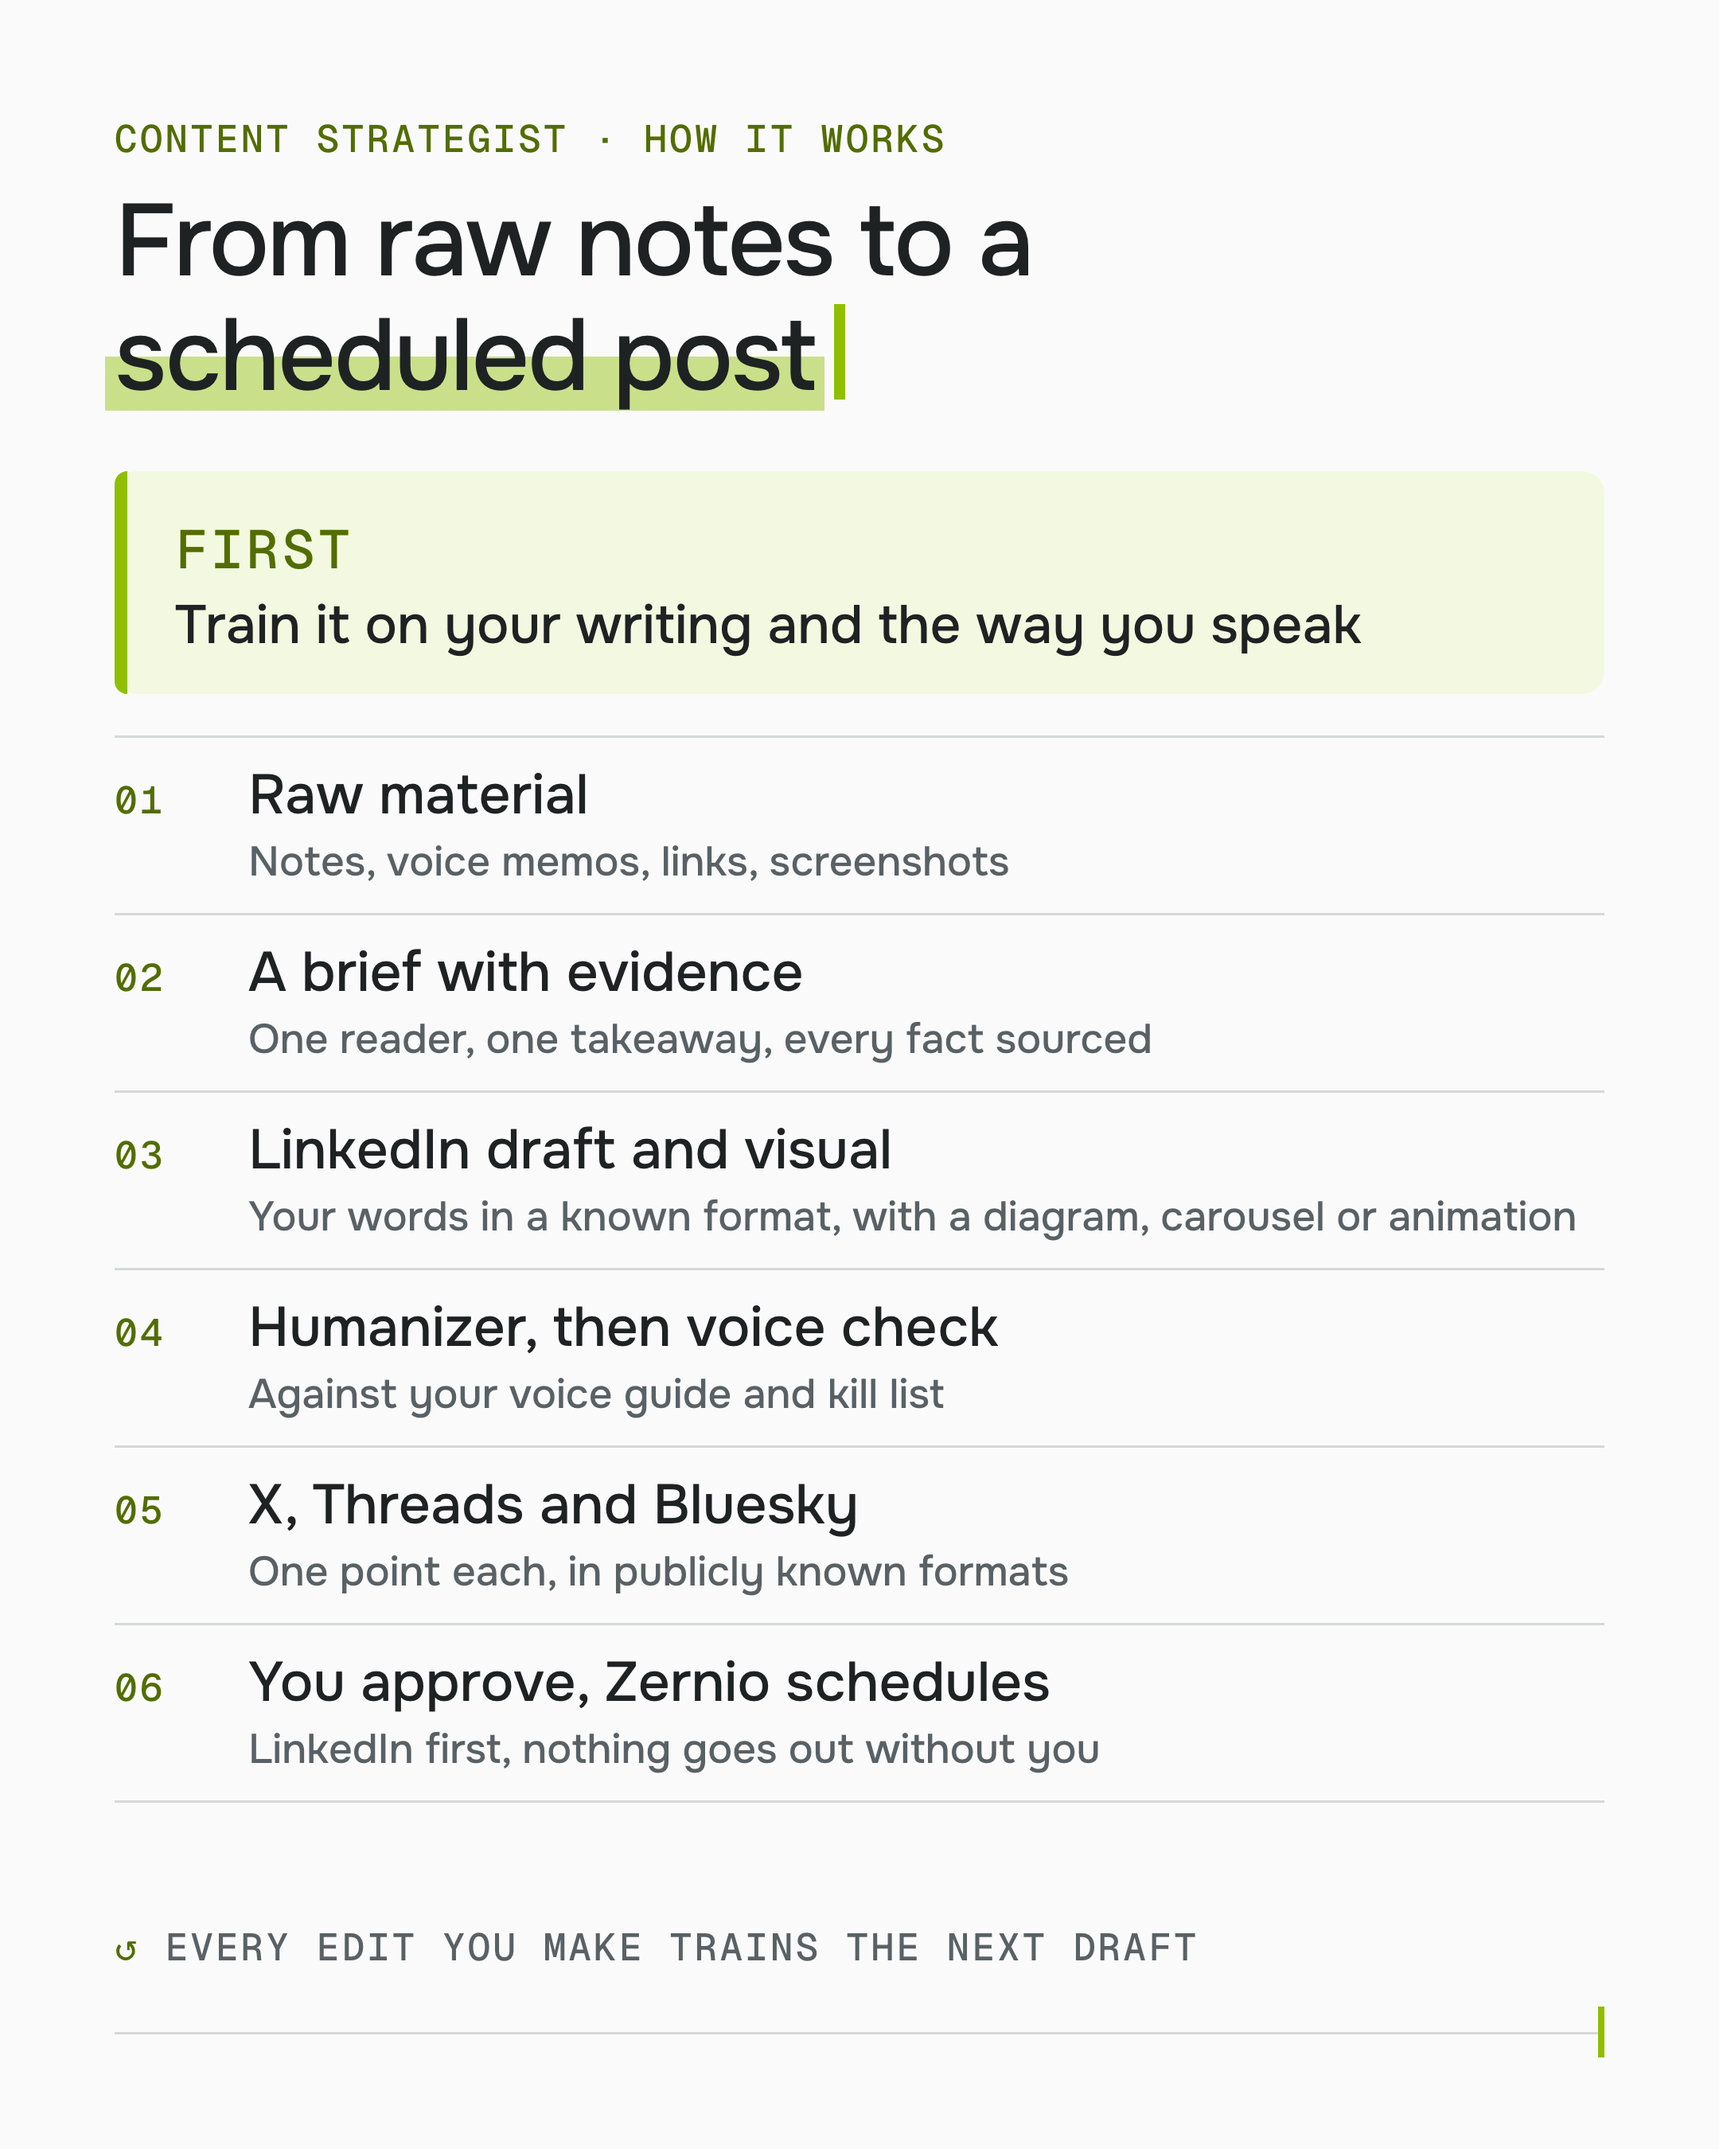
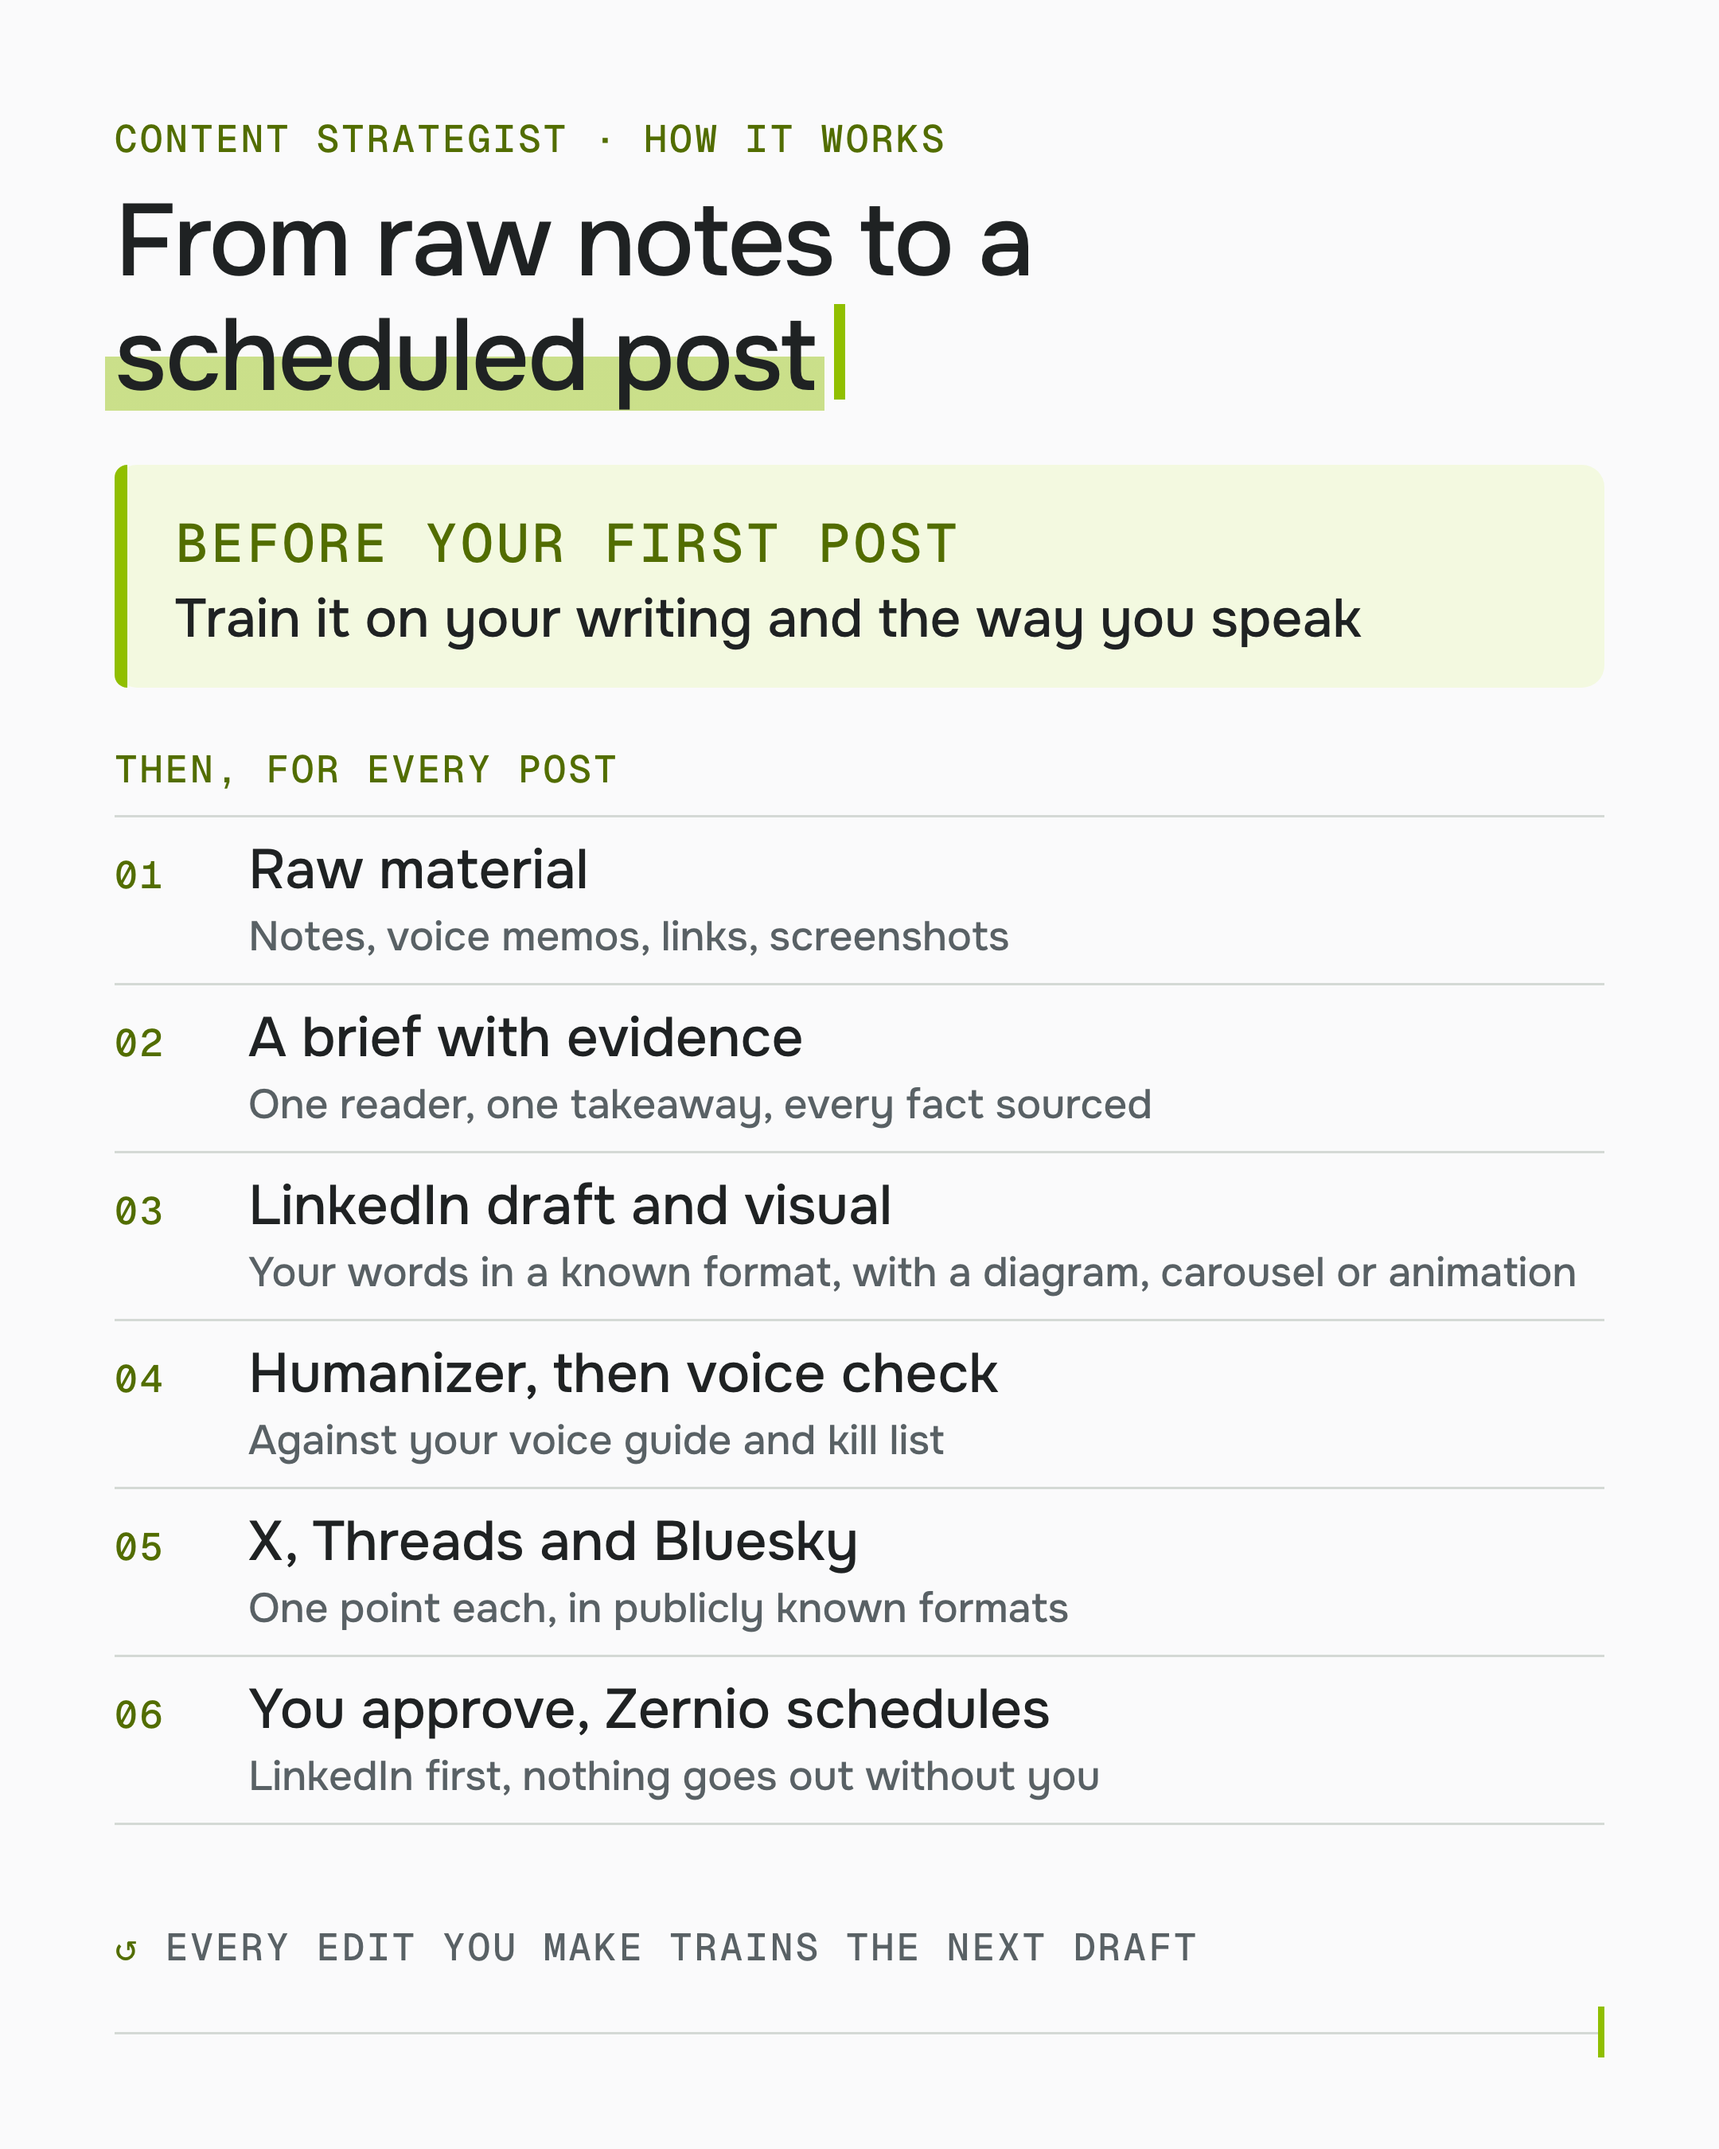
Separate training from the per-post steps in the README diagram

diff --git a/examples/outputs/visuals/content-workflow/content-workflow.html b/examples/outputs/visuals/content-workflow/content-workflow.html
@@ -15,12 +15,13 @@
 .q mark{color:inherit;background:linear-gradient(transparent 50%, rgba(144,191,0,.45) 50%, rgba(144,191,0,.45) 92%, transparent 92%);
   padding:0 6px;margin:0 -6px;-webkit-box-decoration-break:clone;box-decoration-break:clone}
 .caret{display:inline-block;width:7px;height:60px;background:var(--lime);margin-left:12px;vertical-align:-6px}
-.first{position:relative;margin-top:36px;padding:22px 30px 22px 38px;background:var(--lime-soft);border-radius:14px}
+.first{position:relative;margin-top:32px;padding:22px 30px 22px 38px;background:var(--lime-soft);border-radius:14px}
 .first::before{content:"";position:absolute;left:0;top:0;bottom:0;width:8px;background:var(--lime);border-radius:14px 0 0 14px}
 .first .label{color:var(--lime-text)}
 .first p{margin-top:6px;font-weight:500;font-size:34px;line-height:42px}
-ol{list-style:none;margin-top:26px;border-bottom:1.5px solid var(--line)}
-li{display:grid;grid-template-columns:84px 1fr;align-items:baseline;padding:15px 0;border-top:1.5px solid var(--line)}
+.group{margin-top:36px;color:var(--lime-text)}
+ol{list-style:none;margin-top:14px;border-bottom:1.5px solid var(--line)}
+li{display:grid;grid-template-columns:84px 1fr;align-items:baseline;padding:12px 0;border-top:1.5px solid var(--line)}
 .n{font-family:"Geist Mono",monospace;font-weight:500;font-size:24px;letter-spacing:.06em;color:var(--lime-text)}
 .t{font-weight:500;font-size:35px;line-height:42px}
 .s{display:block;margin-top:4px;font-size:26px;line-height:34px;color:var(--muted)}
@@ -29,13 +30,14 @@ li{display:grid;grid-template-columns:84px 1fr;align-items:baseline;padding:15px
 </style>
 </head>
 <body>
-<main class="art" role="img" aria-label="From raw notes to a scheduled post. First, train it on your writing and the way you speak. Then: 1, raw material: notes, voice memos, links, screenshots. 2, a brief with evidence: one reader, one takeaway, every fact sourced. 3, LinkedIn draft and visual: your words in a known format, with a diagram, carousel or animation. 4, humanizer, then voice check, against your voice guide and kill list. 5, X, Threads and Bluesky: one point each, in publicly known formats. 6, you approve and Zernio schedules: LinkedIn first, nothing goes out without you. Every edit you make trains the next draft.">
+<main class="art" role="img" aria-label="From raw notes to a scheduled post. Before your first post, train it on your writing and the way you speak. Then, for every post: 1, raw material: notes, voice memos, links, screenshots. 2, a brief with evidence: one reader, one takeaway, every fact sourced. 3, LinkedIn draft and visual: your words in a known format, with a diagram, carousel or animation. 4, humanizer, then voice check, against your voice guide and kill list. 5, X, Threads and Bluesky: one point each, in publicly known formats. 6, you approve and Zernio schedules: LinkedIn first, nothing goes out without you. Every edit you make trains the next draft.">
   <p class="label eyebrow">Content strategist · how it works</p>
   <h1 class="q">From raw notes to a<br><mark>scheduled post</mark><span class="caret"></span></h1>
   <div class="first">
-    <p class="label">First</p>
+    <p class="label">Before your first post</p>
     <p>Train it on your writing and the way you speak</p>
   </div>
+  <p class="label group">Then, for every post</p>
   <ol>
     <li><span class="n">01</span><span class="t">Raw material<span class="s">Notes, voice memos, links, screenshots</span></span></li>
     <li><span class="n">02</span><span class="t">A brief with evidence<span class="s">One reader, one takeaway, every fact sourced</span></span></li>

diff --git a/README.md b/README.md
@@ -4,7 +4,7 @@ A Claude Code workspace that turns your raw notes into posts for LinkedIn, X, Th
 
 Built by Diana Dobra on the setup of Maja Voje's [GTM Strategist skills](https://github.com/GTM-Strategist/gtm-strategist-skills): skills in `.claude/skills/`, context files you fill in once, and every output saved in the repo.
 
-<img src="examples/outputs/visuals/content-workflow/content-workflow.png" alt="From raw notes to a scheduled post: first train it on your writing and the way you speak; then raw material, a brief with evidence, a LinkedIn draft and visual, humanizer and voice check, X, Threads and Bluesky versions, and you approve while Zernio schedules. Every edit trains the next draft." width="540">
+<img src="examples/outputs/visuals/content-workflow/content-workflow.png" alt="From raw notes to a scheduled post. Before your first post, train it on your writing and the way you speak. Then, for every post: raw material, a brief with evidence, a LinkedIn draft and visual, humanizer and voice check, X, Threads and Bluesky versions, and you approve while Zernio schedules. Every edit trains the next draft." width="540">
 
 ## How it works
 
